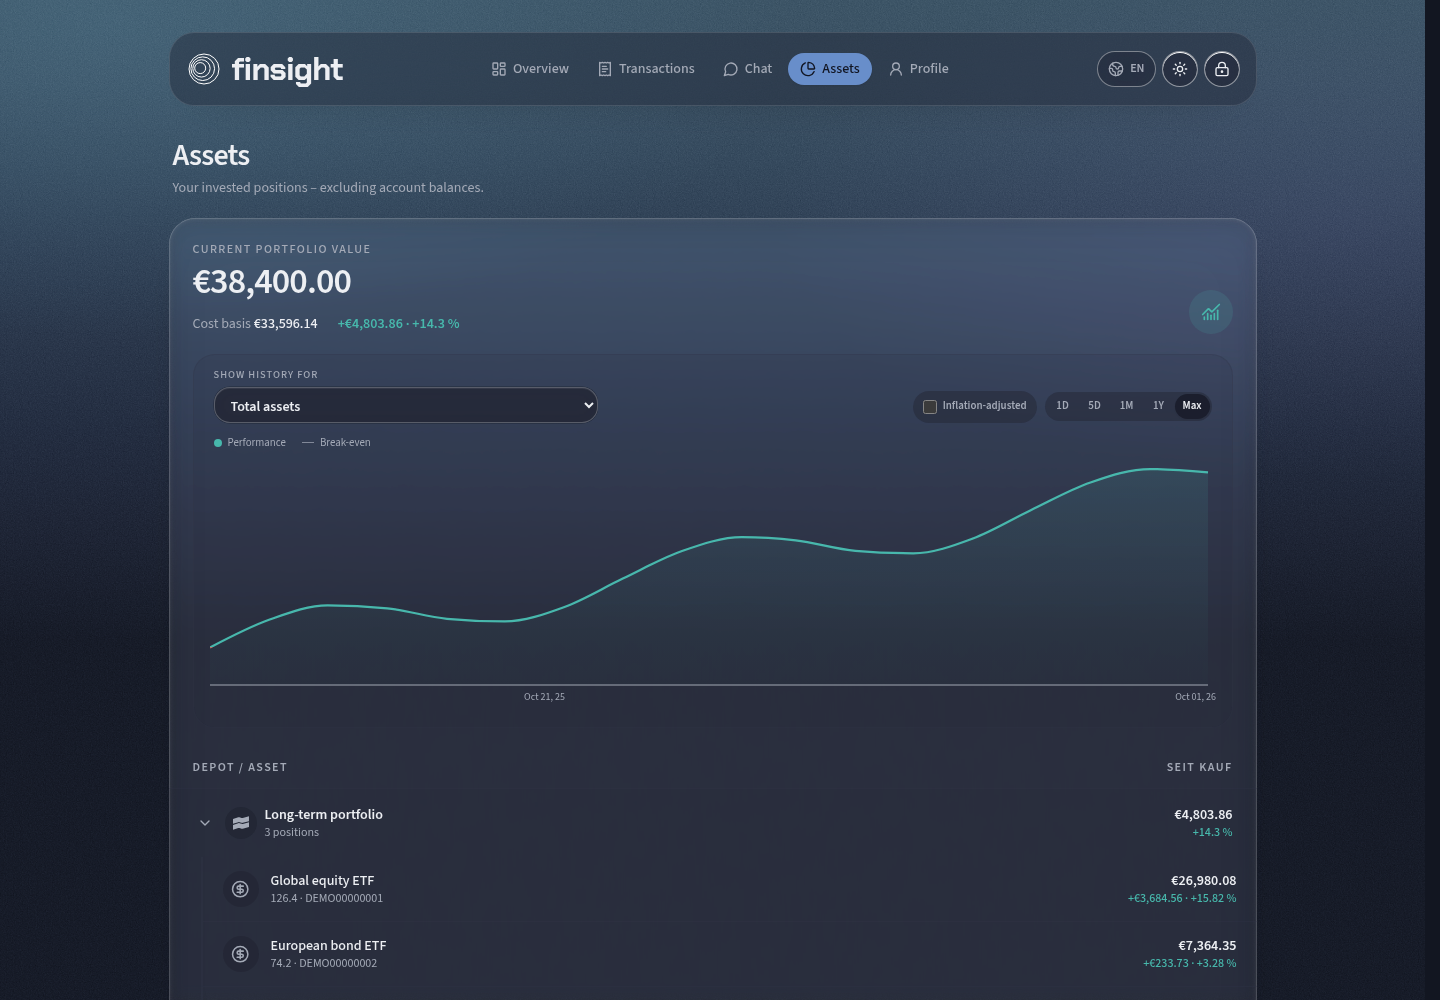
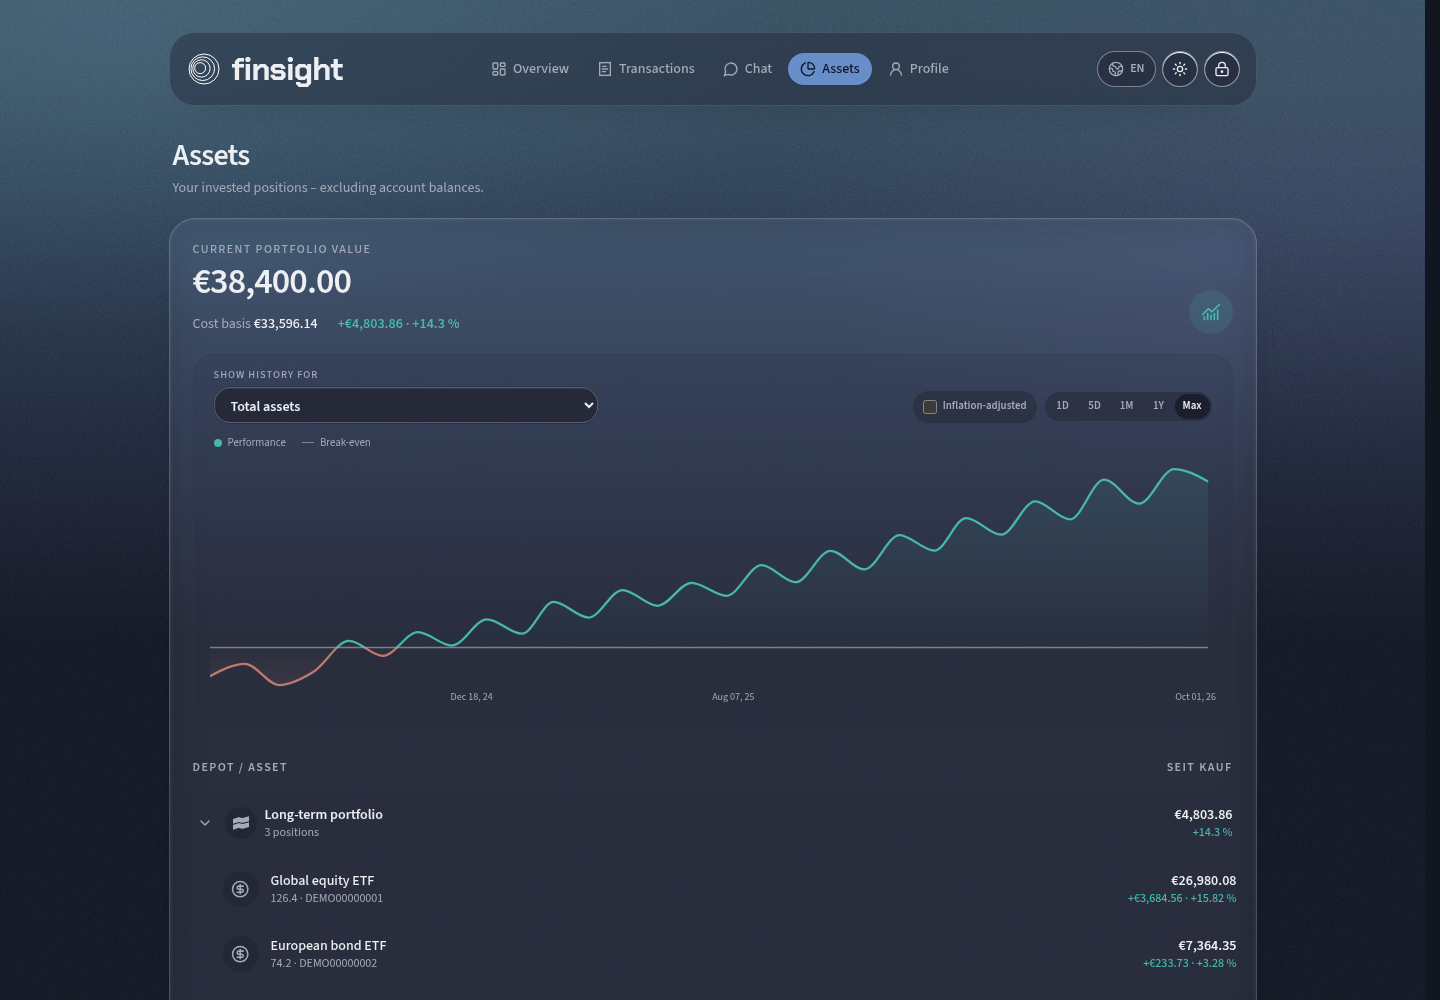
feat: enrich synthetic asset history

diff --git a/frontend/screenshots/fixtures.ts b/frontend/screenshots/fixtures.ts
@@ -155,10 +155,22 @@ const conversation = {
   ],
 };
 
-const historyPoints = Array.from({ length: 18 }, (_, index) => {
-  const value = 29500 + index * 520 + Math.sin(index * 0.9) * 620;
-  const invested = 28500 + index * 260;
-  return { timestamp: new Date(Date.UTC(2025, 4 + index, 1)).toISOString(), value: value.toFixed(2), invested_value: invested.toFixed(2), performance_percent: (((value - invested) / invested) * 100).toFixed(2) };
+const syntheticPerformancePercent = [
+  -3.2, -1.8, -4.1, -2.6, 0.7, -0.9, 1.6, 0.2, 2.9, 1.4,
+  4.6, 3.0, 5.7, 4.1, 6.3, 5.0, 7.9, 6.2, 9.1, 7.3,
+  10.4, 8.9, 11.8, 10.2, 13.1, 11.4, 14.8, 12.6, 15.5, 14.3,
+];
+
+const historyPoints = syntheticPerformancePercent.map((performancePercent, index) => {
+  const progress = index / (syntheticPerformancePercent.length - 1);
+  const invested = 26000 + (33596.14 - 26000) * progress;
+  const value = invested * (1 + performancePercent / 100);
+  return {
+    timestamp: new Date(Date.UTC(2024, 4 + index, 1)).toISOString(),
+    value: value.toFixed(2),
+    invested_value: invested.toFixed(2),
+    performance_percent: performancePercent.toFixed(2),
+  };
 });
 
 function json(route: Route, body: unknown, status = 200) {

diff --git a/README.md b/README.md
@@ -39,7 +39,7 @@ provide financial advice.
 
 [Features](#features) · [Getting started](#getting-started) · [Adapters](#supported-adapters) · [Credentials](#credentials-and-secrets) · [Privacy](#privacy) · [Development](#development) · [Related projects](#related-projects)
 
-## A private finance workspace on every screen
+## Screenshots
 
 <table>
   <tr>
@@ -47,7 +47,6 @@ provide financial advice.
       <a href="docs/screenshots/overview-desktop-dark.png">
         <img src="docs/screenshots/overview-desktop-dark.png" alt="finsight overview with synthetic data" width="100%">
       </a>
-      <br><sub><strong>Overview</strong> · current net worth and cashflow analysis</sub>
     </td>
   </tr>
   <tr>
@@ -55,13 +54,11 @@ provide financial advice.
       <a href="docs/screenshots/overview-mobile-dark.png">
         <img src="docs/screenshots/overview-mobile-dark.png" alt="finsight mobile overview with synthetic data" width="100%">
       </a>
-      <br><sub><strong>Mobile overview</strong> · app-like navigation and touch-friendly charts</sub>
     </td>
     <td width="50%" align="center" valign="top">
       <a href="docs/screenshots/chat-mobile-dark.png">
         <img src="docs/screenshots/chat-mobile-dark.png" alt="Local finance chat with generated analysis chart" width="100%">
       </a>
-      <br><sub><strong>Local finance chat</strong> · explanations, calculations and generated charts</sub>
     </td>
   </tr>
   <tr>
@@ -69,7 +66,6 @@ provide financial advice.
       <a href="docs/screenshots/transactions-desktop-dark.png">
         <img src="docs/screenshots/transactions-desktop-dark.png" alt="finsight transaction workspace with synthetic data" width="100%">
       </a>
-      <br><sub><strong>Transactions</strong> · accounts, categories and local AI explanations in one place</sub>
     </td>
   </tr>
   <tr>
@@ -77,22 +73,14 @@ provide financial advice.
       <a href="docs/screenshots/assets-desktop-dark.png">
         <img src="docs/screenshots/assets-desktop-dark.png" alt="finsight asset performance with synthetic portfolios" width="100%">
       </a>
-      <br><sub><strong>Assets</strong> · portfolio performance, cost basis and positions</sub>
     </td>
     <td width="50%" align="center" valign="top">
       <a href="docs/screenshots/cashflow-desktop-dark.png">
         <img src="docs/screenshots/cashflow-desktop-dark.png" alt="finsight cashflow diagram with synthetic income and expenses" width="100%">
       </a>
-      <br><sub><strong>Cashflow</strong> · see where money enters, leaves and builds wealth</sub>
     </td>
   </tr>
 </table>
-
-The responsive interface is designed to feel at home on a phone, including a
-mobile navigation dock, touch-friendly charts and the same local finance chat.
-Every value and booking shown above comes from the repository's deterministic
-[screenshot fixtures](docs/screenshots/README.md), not from a real account. Click
-any tile to open the original image.
 
 ## Features
 
